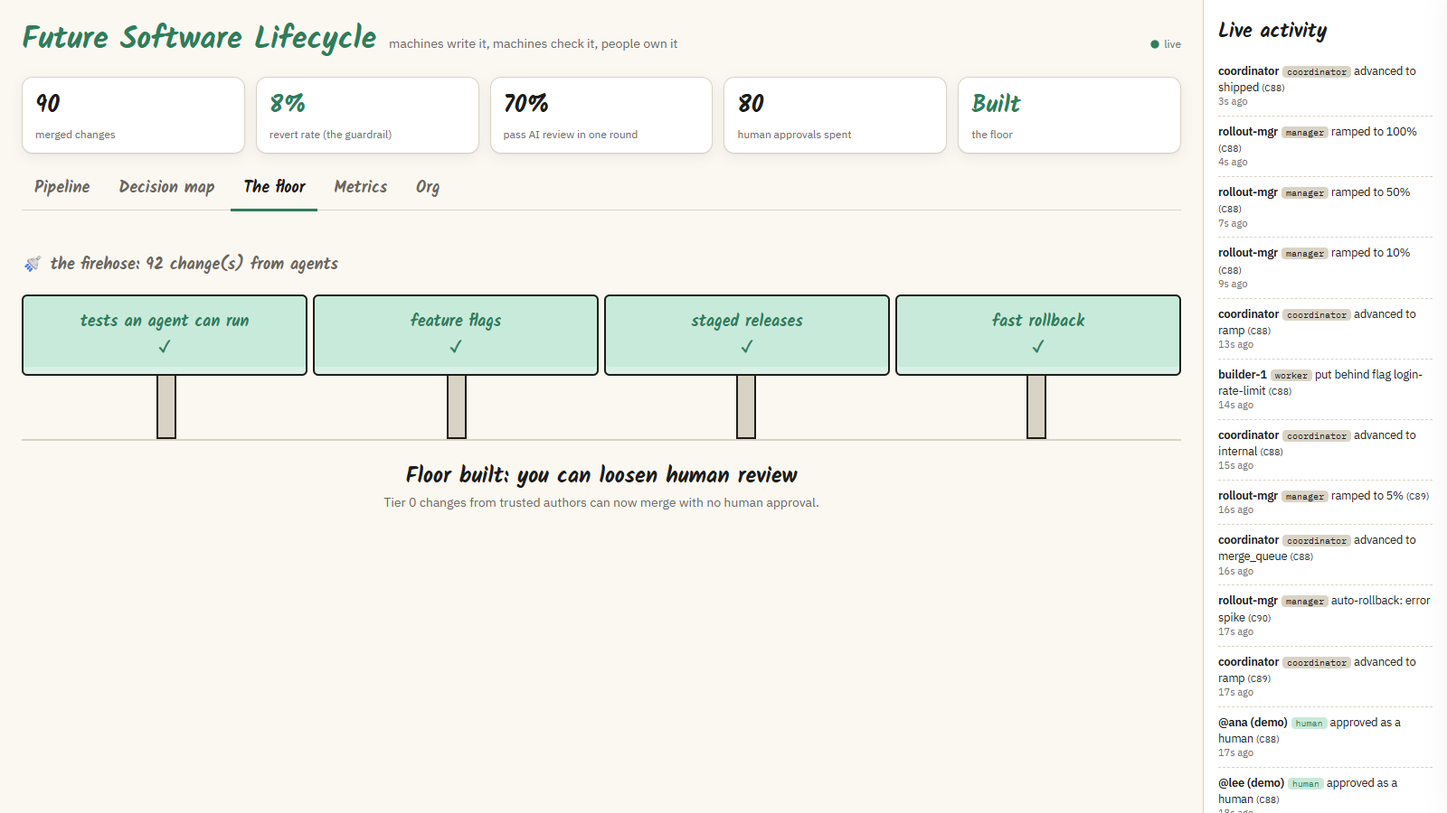
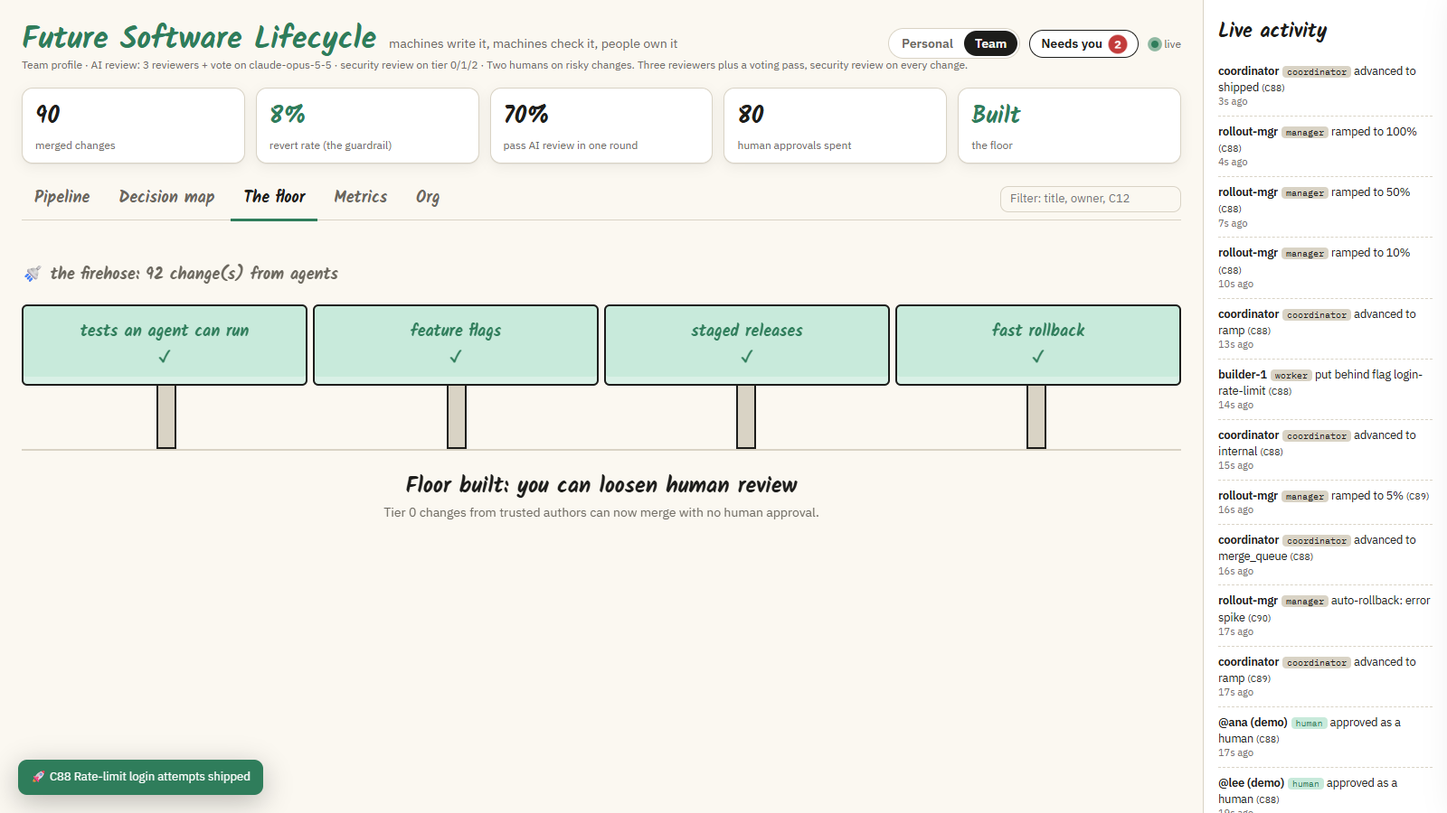
Personal vs team profiles, needs-you inbox, next-step prompts, more motion
- Profiles set approvals, review depth, model, security scope, round limit
  and floor; CLI init/profile, GUI switch, autopilot and skill follow them
- Dashboard: Needs-you inbox, copyable next prompt for Claude per card,
  filter, Esc; toasts, count-up KPIs, shake on blocked, plank drop, chip glide
- README: states it is usable software, setup per profile, new screenshots

diff --git a/lifecycle/public/index.html b/lifecycle/public/index.html
@@ -144,6 +144,41 @@ aside h2 { font-size: 22px; margin-bottom: 10px; }
   .kpis { grid-template-columns: repeat(2, 1fr); } .dmap { grid-template-columns: 1fr 1fr; }
   main { padding: 16px; }
 }
+/* Header controls */
+.ctl { display: flex; gap: 10px; align-items: center; margin-left: auto; }
+.ctl + .live { margin-left: 0; }
+.seg { display: inline-flex; border: 1.5px solid var(--line); border-radius: 99px; padding: 2px; background: var(--card); }
+.seg button { border: 0; background: none; padding: 4px 12px; border-radius: 99px; font-weight: 600; color: var(--muted); transition: background .25s, color .25s; }
+.seg button.on { background: var(--ink); color: var(--paper); }
+.inbox { position: relative; border: 1.5px solid var(--ink); background: var(--card); color: var(--ink); border-radius: 99px; padding: 4px 12px; font-weight: 600; }
+.inbox b { display: inline-grid; place-items: center; min-width: 20px; height: 20px; border-radius: 99px; background: var(--line); font-size: 12px; margin-left: 4px; }
+.inbox.has b { background: var(--red); color: #fff; animation: beat 1.6s infinite; }
+@keyframes beat { 0%, 60%, 100% { transform: scale(1); } 30% { transform: scale(1.25); } }
+.pop { position: absolute; right: 0; top: 38px; width: 360px; background: var(--card); border: 1.5px solid var(--line); border-radius: 12px; box-shadow: 0 12px 40px #0003; padding: 8px; z-index: 6; text-align: left; transform-origin: top right; animation: grow .18s ease-out; }
+@keyframes grow { from { opacity: 0; transform: scale(.92); } }
+.pop .it { padding: 8px; border-radius: 8px; cursor: pointer; font-weight: 400; }
+.pop .it:hover { background: var(--paper); }
+.pop .it small { display: block; color: var(--muted); }
+.pnote { font-size: 12px; color: var(--muted); margin: -6px 0 12px; }
+.find { margin-left: auto; align-self: center; padding: 4px 10px; font-size: 13px; width: 200px; }
+
+/* Motion */
+.kpi.bump b { animation: bump .5s; }
+@keyframes bump { 40% { transform: scale(1.18); color: var(--gold); } }
+.col.hit h3 { animation: hit 1s; }
+@keyframes hit { 30% { color: var(--green); transform: translateX(4px); } }
+.card.shake { animation: shake .45s; }
+@keyframes shake { 20%, 60% { transform: translateX(-5px); } 40%, 80% { transform: translateX(5px); } }
+.plank.drop { animation: drop .6s cubic-bezier(.3, 1.6, .5, 1); }
+@keyframes drop { from { transform: translateY(-40px); opacity: .3; } }
+.toasts { position: fixed; left: 20px; bottom: 20px; display: flex; flex-direction: column; gap: 8px; z-index: 7; }
+.toast { background: var(--ink); color: var(--paper); padding: 10px 14px; border-radius: 10px; box-shadow: 0 8px 30px #0004; font-size: 13px; max-width: 360px; animation: toast 4.5s forwards; }
+.toast.red { background: var(--red); color: #fff; } .toast.green { background: var(--green); color: #fff; }
+@keyframes toast { 0% { opacity: 0; transform: translateY(16px); } 8%, 85% { opacity: 1; transform: none; } 100% { opacity: 0; transform: translateY(8px); } }
+.next { background: var(--blue-bg); border-radius: 10px; padding: 10px; }
+.next code { display: block; font: 12.5px/1.45 var(--mono); white-space: pre-wrap; margin: 6px 0; color: var(--ink); }
+.you { background: var(--gold); color: #1d1d1b; border-radius: 10px; padding: 10px; font-weight: 600; }
+
 @media (prefers-reduced-motion: reduce) { * { animation: none !important; transition: none !important; } }
 </style>
 </head>
@@ -153,8 +188,10 @@ aside h2 { font-size: 22px; margin-bottom: 10px; }
   <header>
     <h1>Future Software Lifecycle</h1>
     <span class="sub">machines write it, machines check it, people own it</span>
+    <span class="ctl"><span class="seg" id="seg"></span><span style="position:relative"><button class="inbox" id="inbox">Needs you <b>0</b></button><div id="pop"></div></span></span>
     <span class="live" id="live"><i></i><span>connecting…</span></span>
   </header>
+  <div class="pnote" id="pnote"></div>
   <div class="kpis" id="kpis"></div>
   <nav id="tabs"></nav>
   <div id="view"></div>
@@ -162,6 +199,7 @@ aside h2 { font-size: 22px; margin-bottom: 10px; }
 <aside><h2>Live activity</h2><div id="feed"></div></aside>
 </div>
 <div class="drawer" id="drawer"></div>
+<div class="toasts" id="toasts"></div>
 
 <script>
 const $ = (s) => document.querySelector(s);
@@ -172,9 +210,12 @@ const store = { get: (k) => { try { return localStorage.getItem(k); } catch { re
 
 const TABS = { pipeline: 'Pipeline', decisions: 'Decision map', floor: 'The floor', metrics: 'Metrics', org: 'Org' };
 let tab = location.hash.slice(1) in TABS ? location.hash.slice(1) : 'pipeline';
-let S = null, open = null, prev = {}, seenLog = 0;
+let S = null, open = null, prev = {}, lastT = null, popOpen = false, q = '';
+const prevStage = {}, prevK = {}, prevFloor = {};
 
-$('#tabs').innerHTML = Object.entries(TABS).map(([k, v]) => `<button data-tab="${k}">${v}</button>`).join('');
+$('#tabs').innerHTML = Object.entries(TABS).map(([k, v]) => `<button data-tab="${k}">${v}</button>`).join('') + '<input class="find" id="find" placeholder="Filter: title, owner, C12">';
+$('#find').oninput = (e) => { q = e.target.value.toLowerCase(); render(); };
+document.onkeydown = (e) => { if (e.key === 'Escape') { open = null; popOpen = false; drawer(); inbox(); } };
 $('#tabs').onclick = (e) => { const k = e.target.dataset.tab; if (k) { tab = k; location.hash = k; render(); } };
 
 async function human(body) {
@@ -192,7 +233,76 @@ function kpis() {
     [m.humanApprovals, 'human approvals spent', ''],
     [S.floorBuilt ? 'Built' : Object.values(S.floor).filter(Boolean).length + '/4', 'the floor', S.floorBuilt ? 'good' : 'bad'],
   ];
+  k[4][0] = S.floorBuilt ? 'Built' : S.profile.floor.filter((x) => S.floor[x]).length + '/' + S.profile.floor.length;
   $('#kpis').innerHTML = k.map(([v, l, c]) => `<div class="kpi ${c}"><b>${v}</b><span>${l}</span></div>`).join('');
+  // Count numbers up from their last value and bump the tile, so changes catch the eye.
+  $('#kpis').querySelectorAll('.kpi').forEach((el, i) => {
+    const b = el.querySelector('b'), txt = String(k[i][0]), to = parseFloat(txt), from = prevK[i];
+    if (from !== undefined && from !== txt) {
+      el.classList.add('bump');
+      const f = parseFloat(from), suffix = txt.replace(/^[\d.]+/, '');
+      if (!isNaN(f) && !isNaN(to)) {
+        const t0 = performance.now();
+        const step = (t) => { const p = Math.min(1, (t - t0) / 600); b.textContent = Math.round(f + (to - f) * p) + suffix; if (p < 1) requestAnimationFrame(step); };
+        requestAnimationFrame(step);
+      }
+    }
+    prevK[i] = txt;
+  });
+}
+
+// What only a person can do right now.
+function needsYou() {
+  const out = [];
+  for (const c of S.changes) {
+    if (c.reverted) continue;
+    const b = c.blockers.join(' ');
+    if (c.stage === 'approval' && /human approval/.test(b)) out.push([c, 'Approve', `Needs ${c.required} human approval(s): read the evidence, then approve`]);
+    else if (/rethink/.test(b)) out.push([c, 'Decide', 'Review loop hit the limit: agree a new approach with Claude']);
+    else if (c.stage === 'ramp' && c.halted) out.push([c, 'Decide', 'You halted this ramp: resume or revert']);
+    else if (c.stage === 'ramp' && c.ramp < 100) out.push([c, 'Watch', `Rolling out at ${c.ramp}%: halt if anything looks wrong`]);
+  }
+  return out;
+}
+
+function inbox() {
+  const items = needsYou();
+  $('#inbox').className = 'inbox' + (items.length ? ' has' : '');
+  $('#inbox b').textContent = items.length;
+  $('#pop').innerHTML = popOpen ? `<div class="pop">${items.map(([c, verb, why]) => `<div class="it" data-id="${c.id}"><b>${verb}: ${esc(c.title)}</b> <span class="tier t${c.tier}">T${c.tier}</span><small>${c.id} · ${esc(why)}</small></div>`).join('') || '<div class="it">Nothing needs you. The machines are checking the machines.</div>'}</div>` : '';
+  $('#pop').querySelectorAll('.it[data-id]').forEach((el) => (el.onclick = () => { open = el.dataset.id; popOpen = false; inbox(); drawer(); }));
+}
+$('#inbox').onclick = () => { popOpen = !popOpen; inbox(); };
+
+function profileBar() {
+  $('#seg').innerHTML = Object.entries(S.profiles).map(([k, p]) => `<button class="${S.profile.label === p.label ? 'on' : ''}" data-p="${k}" title="${esc(p.note)}">${p.label}</button>`).join('');
+  $('#seg').querySelectorAll('button').forEach((b) => (b.onclick = () => human({ action: 'profile', name: b.dataset.p })));
+  const rv = S.profile.review;
+  $('#pnote').textContent = `${S.profile.label} profile · AI review: ${rv.reviewers} reviewer${rv.reviewers > 1 ? 's' : ''}${rv.vote ? ' + vote' : ''} on ${rv.model} · security review on tier ${S.profile.securityTiers.join('/')} · ${S.profile.note}`;
+}
+
+function toast(text, cls = '') {
+  const el = document.createElement('div');
+  el.className = 'toast ' + cls; el.textContent = text;
+  $('#toasts').appendChild(el); setTimeout(() => el.remove(), 4600);
+}
+
+const NEXT = {
+  spec: (c) => `Use the lifecycle skill: write the spec and acceptance criteria for ${c.id}, then advance it.`,
+  verify: (c) => `Use the lifecycle skill: build ${c.id} and record real test evidence with the evidence command, then advance it.`,
+  ai_review: (c) => /rethink/.test(c.blockers.join(' ')) ? `${c.id} hit the review round limit. Stop patching findings one by one: summarize what keeps failing, propose a different approach, and record it with rethink.` : `Use the lifecycle skill: run an AI review round on ${c.id}, record findings, fix or close each with a reason, then advance it.`,
+  security: (c) => `Use the lifecycle skill: run the security review on ${c.id}, record any findings, then advance it.`,
+  ci: (c) => `Use the lifecycle skill: run our full CI for ${c.id} and advance it.`,
+  approval: (c) => `Advance ${c.id} through the merge queue.`,
+  merge_queue: (c) => `Advance ${c.id} through the merge queue, then put it behind a feature flag.`,
+  internal: (c) => `Put ${c.id} behind a feature flag and advance it.`,
+  ramp: (c) => `Ramp ${c.id} to the next step (10%, 50%, 100%) and advance it once it reaches 100%.`,
+};
+function copyNext(btn) {
+  const code = btn.previousElementSibling, done = () => setTimeout(() => (btn.textContent = 'Copy prompt'), 1800);
+  const fallback = () => { const rg = document.createRange(); rg.selectNodeContents(code); getSelection().removeAllRanges(); getSelection().addRange(rg); btn.textContent = 'Press Ctrl+C'; done(); };
+  if (!navigator.clipboard) return fallback();
+  navigator.clipboard.writeText(code.textContent).then(() => { btn.textContent = 'Copied ✓'; done(); }, fallback);
 }
 
 function card(c) {
@@ -214,11 +324,12 @@ function shipped(live) {
 
 function pipeline() {
   if (!S.changes.length) return `<div class="empty">No changes yet. Ask Claude: <code>use the lifecycle skill to open a change for …</code><br>or run <code>node lifecycle/demo.mjs</code> to watch a simulated team.</div>`;
-  const live = S.changes.filter((c) => !c.reverted);
+  const hit = (c) => !q || (c.title + ' ' + c.owner + ' ' + c.id).toLowerCase().includes(q);
+  const live = S.changes.filter((c) => !c.reverted && hit(c));
   const gates = ['approval', 'ramp'];
   let h = '<div class="pipe">' + S.stages.map((st) => `<div class="col ${gates.includes(st.id) ? 'gate' : ''}"><div class="layer">${st.layer}</div><h3>${st.label}</h3>
     ${st.id === 'shipped' ? shipped(live) : live.filter((c) => c.stage === st.id).map(card).join('')}</div>`).join('') + '</div>';
-  const rev = S.changes.filter((c) => c.reverted);
+  const rev = S.changes.filter((c) => c.reverted && hit(c));
   if (rev.length) h += `<div class="tray"><h3>Reverted</h3>${rev.map(card).join('')}</div>`;
   return h;
 }
@@ -231,6 +342,8 @@ function drawer() {
     <div class="row"><span class="tier t${c.tier}">TIER ${c.tier}</span><span class="pill">${esc(c.stage)}</span>${c.reverted ? '<span class="pill a">reverted</span>' : ''}</div>
     <h2>${esc(c.title)}</h2>
     <div>Accountable human: <b>${esc(c.owner)}</b></div>
+    ${(() => { const n = needsYou().find(([x]) => x.id === c.id); return n ? `<section class="you">👤 You: ${esc(n[2])}</section>` : ''; })()}
+    ${NEXT[c.stage] && !c.reverted ? `<section class="next"><h4>Next step for Claude</h4><code>${esc(NEXT[c.stage](c))}</code><button class="btn" onclick="copyNext(this)">Copy prompt</button></section>` : ''}
     <section><h4>Blockers</h4>${c.blockers.length ? c.blockers.map((b) => `<div class="blk" style="color:var(--red)">⛔ ${esc(b)}</div>`).join('') : '<div style="color:var(--green)">None</div>'}</section>
     <section><h4>Your actions (human only)</h4>
       <div class="row"><input id="who" placeholder="your name" value="${who}" onchange="store.set('who', this.value)">
@@ -258,10 +371,10 @@ function decisions() {
 const PL = [['tests', 'tests an agent can run'], ['flags', 'feature flags'], ['staged', 'staged releases'], ['rollback', 'fast rollback']];
 function floor() {
   return `<div class="floor"><div class="hose">🚿 the firehose: ${S.changes.length} change(s) from agents</div>
-    <div class="planks">${PL.map(([k, l]) => `<div class="plank ${S.floor[k] ? '' : 'missing'}" data-k="${k}">${l}<br>${S.floor[k] ? '✓' : '+ build it'}</div>`).join('')}</div>
+    <div class="planks">${PL.map(([k, l]) => `<div class="plank ${S.floor[k] ? '' : 'missing'} ${S.floor[k] && prevFloor[k] === false ? 'drop' : ''}" data-k="${k}">${l}<br>${S.floor[k] ? '✓' : S.profile.floor.includes(k) ? '+ build it' : 'optional (' + S.profile.label + ')'}</div>`).join('')}</div>
     <div class="legs"><i></i><i></i><i></i><i></i></div><div class="ground"></div>
     <div class="verdict">${S.floorBuilt ? 'Floor built: you can loosen human review' : 'Not ready to review less'}
-      <small>${S.floorBuilt ? 'Tier 0 changes from trusted authors can now merge with no human approval.' : 'Every change needs at least one human until all four planks are in. Click a plank once it really exists.'}</small></div></div>`;
+      <small>${S.floorBuilt ? `Tier 0 changes${S.config.profile === 'personal' ? '' : ' from trusted authors'} can now merge with no human approval.` : `Every change needs at least one human until the ${S.profile.floor.length} required planks are in. Click a plank once it really exists.`}</small></div></div>`;
 }
 
 function metrics() {
@@ -308,19 +421,38 @@ function pulseOrg(newEvents) {
 function render() {
   if (!S) return;
   document.querySelectorAll('#tabs button').forEach((b) => b.classList.toggle('on', b.dataset.tab === tab));
-  // FLIP: remember where each card was, re-render, then slide it from old to new spot.
+  // FLIP: remember where each card and decision chip was, re-render, then slide it from old to new spot.
   const before = {};
-  document.querySelectorAll('.card[data-id]').forEach((el) => (before[el.dataset.id] = el.getBoundingClientRect()));
-  kpis();
+  document.querySelectorAll('[data-id].card, .chip').forEach((el) => (before[el.dataset.id || el.dataset.d] = el.getBoundingClientRect()));
+  const fresh = lastT ? S.log.filter((e) => e.t > lastT) : [];
+  lastT = S.log.at(-1)?.t || lastT;
+  kpis(); profileBar(); inbox();
   $('#view').innerHTML = { pipeline, decisions, floor, metrics, org }[tab]();
-  document.querySelectorAll('.card[data-id]').forEach((el) => {
-    const id = el.dataset.id, c = S.changes.find((x) => x.id === id), b = before[id], a = el.getBoundingClientRect();
+  const slide = (el, b) => {
+    const a = el.getBoundingClientRect();
     if (b && (b.left !== a.left || b.top !== a.top)) el.animate([{ transform: `translate(${b.left - a.left}px, ${b.top - a.top}px)` }, { transform: 'none' }], { duration: 650, easing: 'cubic-bezier(.2,.8,.2,1)' });
+  };
+  document.querySelectorAll('.chip').forEach((el) => slide(el, before[el.dataset.d]));
+  document.querySelectorAll('.card[data-id]').forEach((el) => {
+    const id = el.dataset.id, c = S.changes.find((x) => x.id === id);
+    slide(el, before[id]);
     const sig = JSON.stringify(c);
     if (prev[id] && prev[id] !== sig) el.classList.add('flash');
-    prev[id] = sig;
+    if (prevStage[id] && prevStage[id] !== c.stage) el.closest('.col')?.classList.add('hit');
+    if (fresh.some((e) => e.change === id && e.text.startsWith('blocked'))) el.classList.add('shake');
+    prev[id] = sig; prevStage[id] = c.stage;
     el.onclick = () => { open = id; drawer(); };
   });
+  Object.assign(prevFloor, S.floor);
+  // Pop a toast for the moments a person cares about.
+  for (const e of fresh.slice(-4)) {
+    const c = S.changes.find((x) => x.id === e.change), name = c ? `${c.id} ${c.title}` : '';
+    if (/REVERTED|auto-rollback/.test(e.text)) toast(`↩ ${name} rolled back`, 'red');
+    else if (/HALTED/.test(e.text)) toast(`✋ ${e.actor} halted ${name}`, 'red');
+    else if (e.text === 'advanced to shipped') toast(`🚀 ${name} shipped`, 'green');
+    else if (e.text === 'advanced to approval' && c?.required) toast(`👤 ${name} needs your approval`);
+    else if (/finding/.test(e.text) && e.role === 'security') toast(`🛡 Security finding on ${name}`, 'red');
+  }
   document.querySelectorAll('.plank').forEach((el) => (el.onclick = () => human({ action: 'floor', key: el.dataset.k, value: !S.floor[el.dataset.k] })));
   document.querySelectorAll('.chip').forEach((el) => (el.ondragstart = (e) => e.dataTransfer.setData('text', el.dataset.d)));
   document.querySelectorAll('.lvl').forEach((el) => {
@@ -330,8 +462,6 @@ function render() {
   });
   feed();
   if (open) drawer();
-  const fresh = S.log.slice(seenLog ? seenLog : S.log.length);
-  seenLog = S.log.length;
   if (tab === 'org') pulseOrg(fresh);
 }
 

diff --git a/README.md b/README.md
@@ -60,9 +60,11 @@ flowchart TD
     S4 --> W7["Work"] & W8["Work"]
 ```
 
-## The board: run the blueprint with Claude Code
+## The board: real software you can use today
 
-The blueprint is also a working tool. **Claude Code does the work through a CLI; you watch and decide in a live dashboard.** Every step it takes (tests run, findings, fixes, approvals, ramps) moves a card across the board in real time.
+This is not just a document. The `lifecycle/` folder is **working software**: a local dashboard, a command-line tool and a Claude Code skill that run your own changes through the blueprint. Clone it, point it at your project, and Claude Code starts working through the pipeline while you watch and decide. It runs on your machine, needs only Node.js, and sends nothing anywhere unless you turn on the optional API mode.
+
+**Claude Code does the work through a CLI; you watch and decide in a live dashboard.** Every step it takes (tests run, findings, fixes, approvals, rollouts) moves a card across the board in real time.
 
 ![The board in motion: changes flow through verify, AI review, security, CI, human approval and a staged rollout](docs/media/board-in-motion.gif)
 
@@ -72,6 +74,9 @@ The blueprint is also a working tool. **Claude Code does the work through a CLI;
 
 | | |
 |---|---|
+| ![Needs you](docs/media/needs-you.png) | **Needs you.** The red badge counts what only a person can do right now: approvals, review loops that need a new approach, rollouts to watch. Click one to jump to it. |
+| ![Next step](docs/media/next-step.png) | **Next step for Claude.** Every card tells you what to ask Claude next, with a Copy button. On a subscription you paste it into Claude Code; the yellow bar says what *you* should do. |
+| ![Personal profile](docs/media/personal-profile.png) | **Personal or Team.** Switch in the top bar. The line under the title shows exactly how much review depth (and token spend) the profile uses. |
 | ![Pipeline](docs/media/pipeline.png) | **Pipeline.** Every change moves through the six layers. Each card shows its risk tier, the human who owns it, AI review rounds (red after 3) and the exact thing blocking it. The live feed on the right shows who did what. |
 | ![Approval](docs/media/approval-drawer.png) | **Human approval.** Click a card to see the real test output, every finding and how it was answered. Only a person in the GUI can approve: agent approvals are shown crossed out because they never count. |
 | ![Decision map](docs/media/decisions.png) | **Decision map.** Drag each kind of decision to the attention it needs: no human, on the loop, in the loop, or licensed signature. |
@@ -95,7 +100,49 @@ Open http://localhost:4317, then in a second terminal watch a simulated team:
 node lifecycle/demo.mjs --dir .lifecycle-demo
 ```
 
-To use it on your own project, copy the `lifecycle/` folder and `.claude/skills/lifecycle/` into your repo, run `node lifecycle/cli.mjs init`, and start the server without `--dir`.
+**Use it on your own project:**
+
+1. Copy the `lifecycle/` folder and `.claude/skills/lifecycle/` into your repo.
+2. Pick a profile (see below):
+
+```bash
+node lifecycle/cli.mjs init --profile personal
+```
+
+3. Start the board and open http://localhost:4317:
+
+```bash
+node lifecycle/server.mjs
+```
+
+4. In Claude Code, in the same folder: *"Use the lifecycle skill to open a change for <what you want built>. I own it."* From then on, use the **Next step for Claude** prompt on each card, and the **Needs you** badge for your part.
+
+### Personal or team
+
+A solo developer shouldn't spend a company's review budget. Pick a profile with `init --profile`, switch any time from the top bar or with `node lifecycle/cli.mjs profile personal|team`.
+
+| | **Personal** (one developer) | **Team** (a company) |
+|---|---|---|
+| Human approvals | You approve your own tier 1 and 2 changes after reading the evidence | 1 human for tier 1, 2 different humans for tier 2 |
+| AI review | 1 reviewer, no vote | 3 reviewers + a separate voting pass |
+| Model (API mode) | `claude-sonnet-5-5`, medium effort | `claude-opus-5-5`, high effort |
+| Security review | Tier 2 changes only | Every change |
+| Review round limit | 2 | 3 |
+| Floor needed before tier 0 skips you | Tests + rollback (`git revert` counts) | All four planks |
+| API calls per review round | 1 (2 on tier 2), on the cheaper model | 7: 3 reviewers, 3 voters, 1 security |
+
+On a Claude subscription the skill follows the same profile: in personal mode Claude reviews the diff itself in one pass; in team mode it spawns reviewer subagents and has them vote.
+
+### Built to be watched
+
+The board animates what's happening so you can glance at it instead of reading logs:
+- Cards **slide** between stages and **flash** when they change; the stage name pulses when a card arrives.
+- A card **shakes** when Claude tries to advance it and a gate blocks it.
+- **Toasts** pop up for what matters: a change needs your approval, a security finding, a ship, a rollback.
+- KPI numbers **count up** when they change, the **Needs you** badge pulses, floor planks **drop into place** when built, decisions **glide** between columns when you drag them, and the org chart **lights up** the role that's acting.
+- It respects your system's reduced-motion setting.
+
+Keyboard: `Esc` closes panels. The filter box finds cards by title, owner or ID.
 
 ### Two ways to drive it
 
@@ -118,7 +165,7 @@ export ANTHROPIC_API_KEY=sk-ant-...
 node lifecycle/autopilot.mjs C1 --base main --test "npm test"
 ```
 
-Set `LIFECYCLE_MODEL=claude-sonnet-5-5` for a cheaper model (default `claude-opus-5-5`). Each round costs a few API calls per reviewer, so cost grows with diff size and `--reviewers`.
+How deep it goes follows your profile: **personal** makes 1 Sonnet call per round (plus a security call on tier 2); **team** makes 3 Opus reviewer calls, 3 voting calls and a security call. Override with `--reviewers N` or `LIFECYCLE_MODEL=...`. Cost grows with the size of the diff.
 
 ### What the board enforces
 
@@ -126,7 +173,7 @@ Set `LIFECYCLE_MODEL=claude-sonnet-5-5` for a cheaper model (default `claude-opu
 - A change can't leave self-verify without a real, passing command run.
 - Every finding must be fixed or closed with a reason. Open security findings block merge.
 - After 3 AI review rounds, the change is blocked until the approach is rethought.
-- Tier 0 skips human review only when the floor is fully built and the author is trusted.
+- Tier 0 skips human review only when the profile's floor is built (and, in team mode, the author is trusted).
 - The merge queue re-checks every earlier gate before release.
 
 The board is a local process guard, not a security boundary: anything that can write `.lifecycle/state.json` can change it. Real enforcement belongs in branch protection and your CI. Use the board to run and see the process.

diff --git a/.claude/skills/lifecycle/SKILL.md b/.claude/skills/lifecycle/SKILL.md
@@ -14,6 +14,19 @@ The board is a local dashboard plus a CLI. **You act through the CLI; humans act
 2. Start the board in the background if it isn't running: `node lifecycle/server.mjs` → tell the user to open http://localhost:4317.
 3. `LC status` shows every open change and exactly what blocks it. Check it before and after every step.
 
+## Personal or team: check the profile first
+`LC status` prints the profile. Match your effort to it, so a solo developer doesn't burn a company's token budget.
+
+| | Personal (`LC init --profile personal`) | Team (`LC init --profile team`) |
+|---|---|---|
+| Who approves | The user is the only human: they approve their own tier 1 and 2 changes in the GUI after reading the evidence | 1 human for tier 1, 2 humans for tier 2 |
+| AI review | Review the diff yourself in one pass. No reviewer subagents, no vote | Spawn 3 reviewer subagents, then a separate pass keeps only findings most of them agree on |
+| Security review | Only on tier 2 changes | Every change |
+| Round limit | 2 | 3 |
+| Floor for tier 0 | Tests + rollback | All four planks |
+
+If the user hasn't picked, ask: "Is this just you, or a team?" Switch later with `LC profile personal|team`.
+
 ## The non-negotiables
 - **Never claim a human approved.** You can't approve as a human; `LC approve` records an agent approval that never counts. When a change needs a human, tell the user: "C3 needs N human approval(s): open it on the board and click Approve."
 - **The prompter owns the change.** `--owner` is the human who asked you for the work. Ask if unsure.
@@ -30,8 +43,8 @@ On a subscription, run one stage per user prompt unless the user says to keep go
 |---|---|---|
 | Spec | Write acceptance criteria a machine can check, get the user's OK | `LC new --title "..." --owner @user --tier 0/1/2 --spec "..."` then `LC advance <id>` |
 | 1 Self-verify | Make the change, then run the tests/build | `LC evidence <id> --cmd "npm test"` → `LC advance <id>` |
-| 2 AI review | Start a round, review the diff yourself (or spawn reviewer subagents: several hunt, then a separate pass keeps only findings most agree on), record findings, fix or close each | `LC round <id>`, `LC finding <id> --kind bug --text "..." --by reviewer-1`, `LC resolve ...`, `LC advance <id>` |
-| 3 Security | Review the diff for exploitable problems only | `LC finding <id> --kind security --text "..."` (if any), `LC security <id>`, `LC advance <id>` |
+| 2 AI review | Start a round, review the diff as the profile says (personal: yourself, one pass; team: reviewer subagents + vote), record findings, fix or close each | `LC round <id>`, `LC finding <id> --kind bug --text "..." --by reviewer-1`, `LC resolve ...`, `LC advance <id>` |
+| 3 Security | Review the diff for exploitable problems only (personal: skip below tier 2, the board won't ask) | `LC finding <id> --kind security --text "..."` (if any), `LC security <id>`, `LC advance <id>` |
 | 4 CI | Run the project's full check | `LC ci <id> --cmd "npm run build && npm test"` → `LC advance <id>` |
 | 5 Approval | Tell the user how many human approvals the tier needs; they click Approve in the GUI | `LC advance <id>` after they approve |
 | 6 Ship | Merge queue re-checks everything; put it behind a flag; ramp | `LC advance`, `LC flag <id> --name x`, `LC advance`, `LC ramp <id> --pct 10/50/100`, `LC advance` |
@@ -41,7 +54,7 @@ On a subscription, run one stage per user prompt unless the user says to keep go
 Use `--role` so the org chart lights up: `worker` (building), `reviewer`, `security`, `coordinator` (advancing, CI), `manager` (ramps, decision map).
 
 ## API mode (optional, costs API tokens)
-If the user wants layers 2 and 3 run automatically on their own API key: `cd lifecycle && npm install` once, then `node lifecycle/autopilot.mjs <id> --base main --test "npm test"`. It runs several reviewers in parallel, a voting pass, and a security reviewer, and posts results to the board. Say what it will cost roughly (a few cents to a few dollars per round depending on diff size and model) before running it. It never approves or merges.
+If the user wants layers 2 and 3 run automatically on their own API key: `cd lifecycle && npm install` once, then `node lifecycle/autopilot.mjs <id> --base main --test "npm test"`. Its depth follows the profile: personal runs one Sonnet reviewer with no vote and security only on tier 2; team runs three Opus reviewers, a voting pass and security on every change. Say what it will cost roughly before running it (personal: usually cents per round; team: several times that, growing with diff size). It never approves or merges.
 
 ## Other jobs
 - **Decision map:** `LC decision D7 --level none|on|in|licensed --owner @x`. Humans can also drag decisions in the GUI. Move a decision toward less attention only with evidence.
